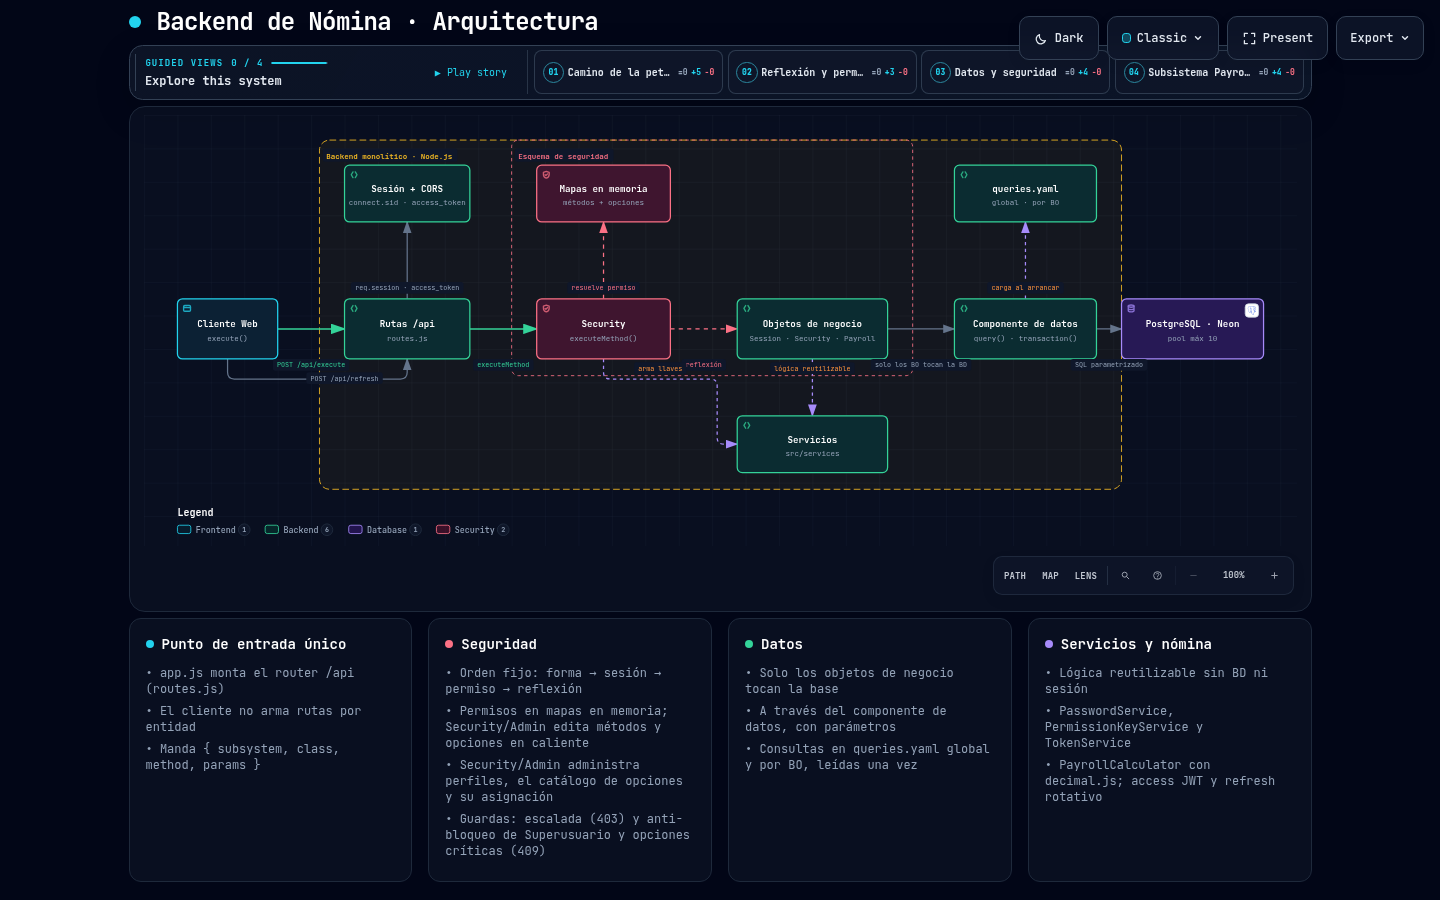
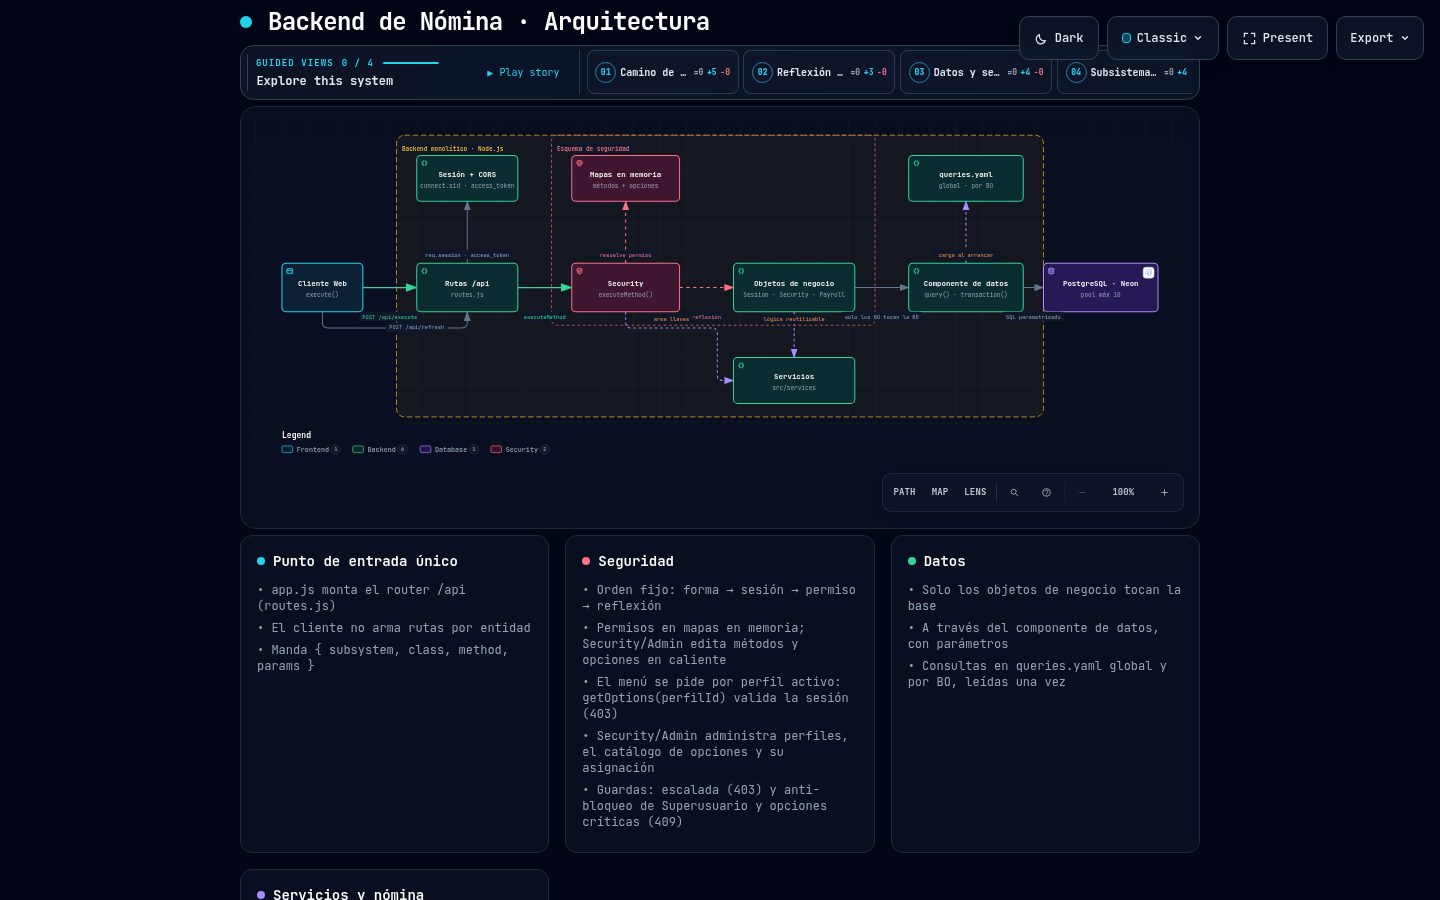
docs(archify): menu por perfil activo en el diagrama de seguridad
getOptions(perfilId) valida la sesion y devuelve solo las opciones del
perfil activo. Validacion showcase 9/9, 0 errores, 0 warnings.

diff --git a/archify-out/payroll-backend-architecture.visual-check.html b/archify-out/payroll-backend-architecture.visual-check.html
@@ -9,15 +9,15 @@
 </style>
 </head>
 <body>
-<header><h1>Automated browser evidence</h1><p>payroll-backend-architecture.html · visual-check containment pass · perceptual visual review pending</p></header>
+<header><h1>Automated browser evidence</h1><p>payroll-backend-architecture.html · visual-check containment fail · perceptual visual review pending</p></header>
 <main class="grid">
       <figure>
         <img src="payroll-backend-architecture.visual-check.1440x900.light.png" alt="light 1440 by 900">
-        <figcaption><strong>LIGHT</strong> · 1440×900 · containment pass</figcaption>
+        <figcaption><strong>LIGHT</strong> · 1440×900 · containment fail</figcaption>
       </figure>
       <figure>
         <img src="payroll-backend-architecture.visual-check.1440x900.dark.png" alt="dark 1440 by 900">
-        <figcaption><strong>DARK</strong> · 1440×900 · containment pass</figcaption>
+        <figcaption><strong>DARK</strong> · 1440×900 · containment fail</figcaption>
       </figure>
       <figure>
         <img src="payroll-backend-architecture.visual-check.2048x1320.light.png" alt="light 2048 by 1320">

diff --git a/archify-out/payroll-backend-architecture.html b/archify-out/payroll-backend-architecture.html
@@ -5588,6 +5588,7 @@ OTHER DEALINGS IN THE FONT SOFTWARE.
         <ul>
           <li>&bull; Orden fijo: forma → sesión → permiso → reflexión</li>
           <li>&bull; Permisos en mapas en memoria; Security/Admin edita métodos y opciones en caliente</li>
+          <li>&bull; El menú se pide por perfil activo: getOptions(perfilId) valida la sesión (403)</li>
           <li>&bull; Security/Admin administra perfiles, el catálogo de opciones y su asignación</li>
           <li>&bull; Guardas: escalada (403) y anti-bloqueo de Superusuario y opciones críticas (409)</li>
         </ul>
